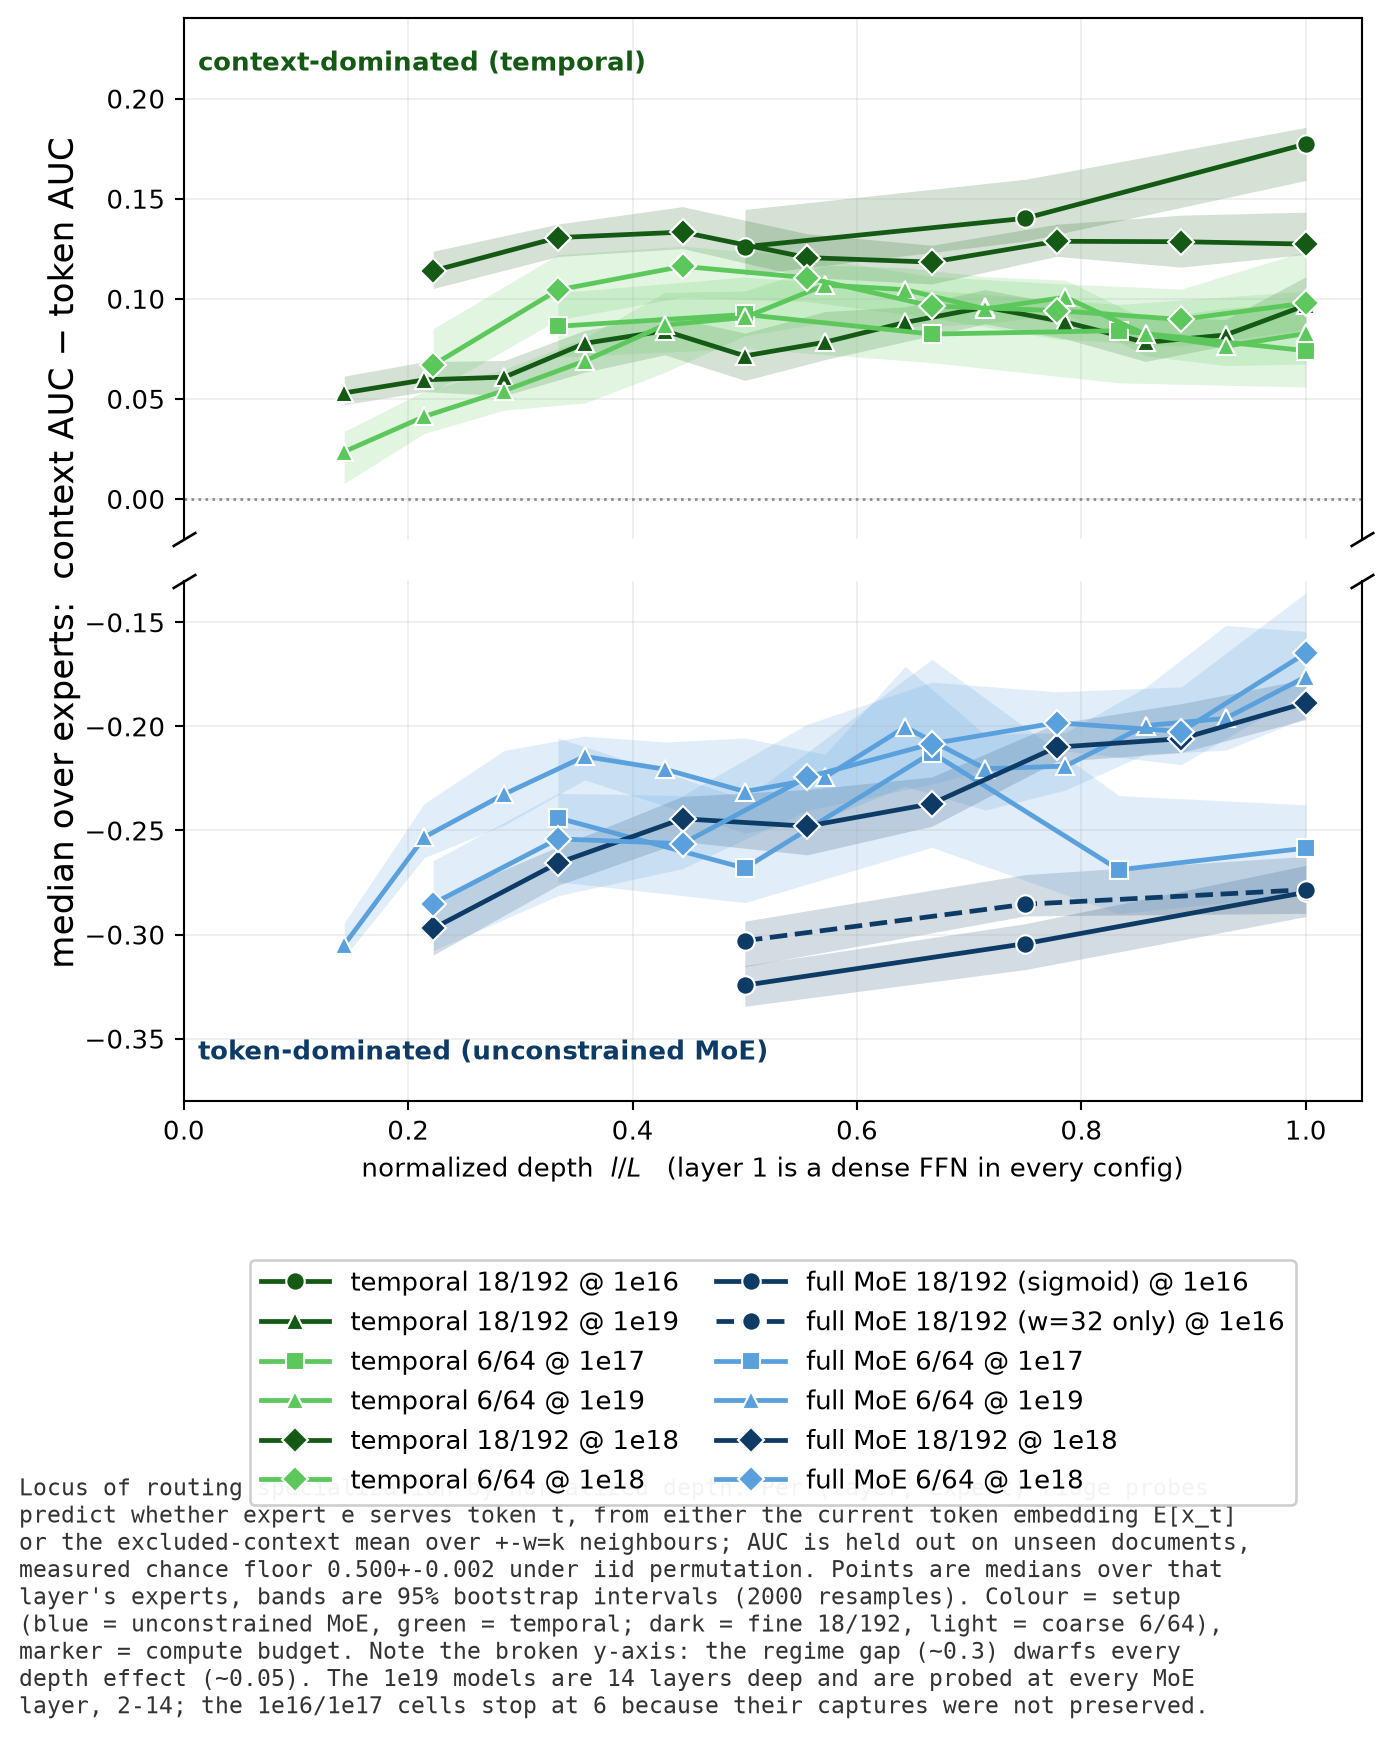
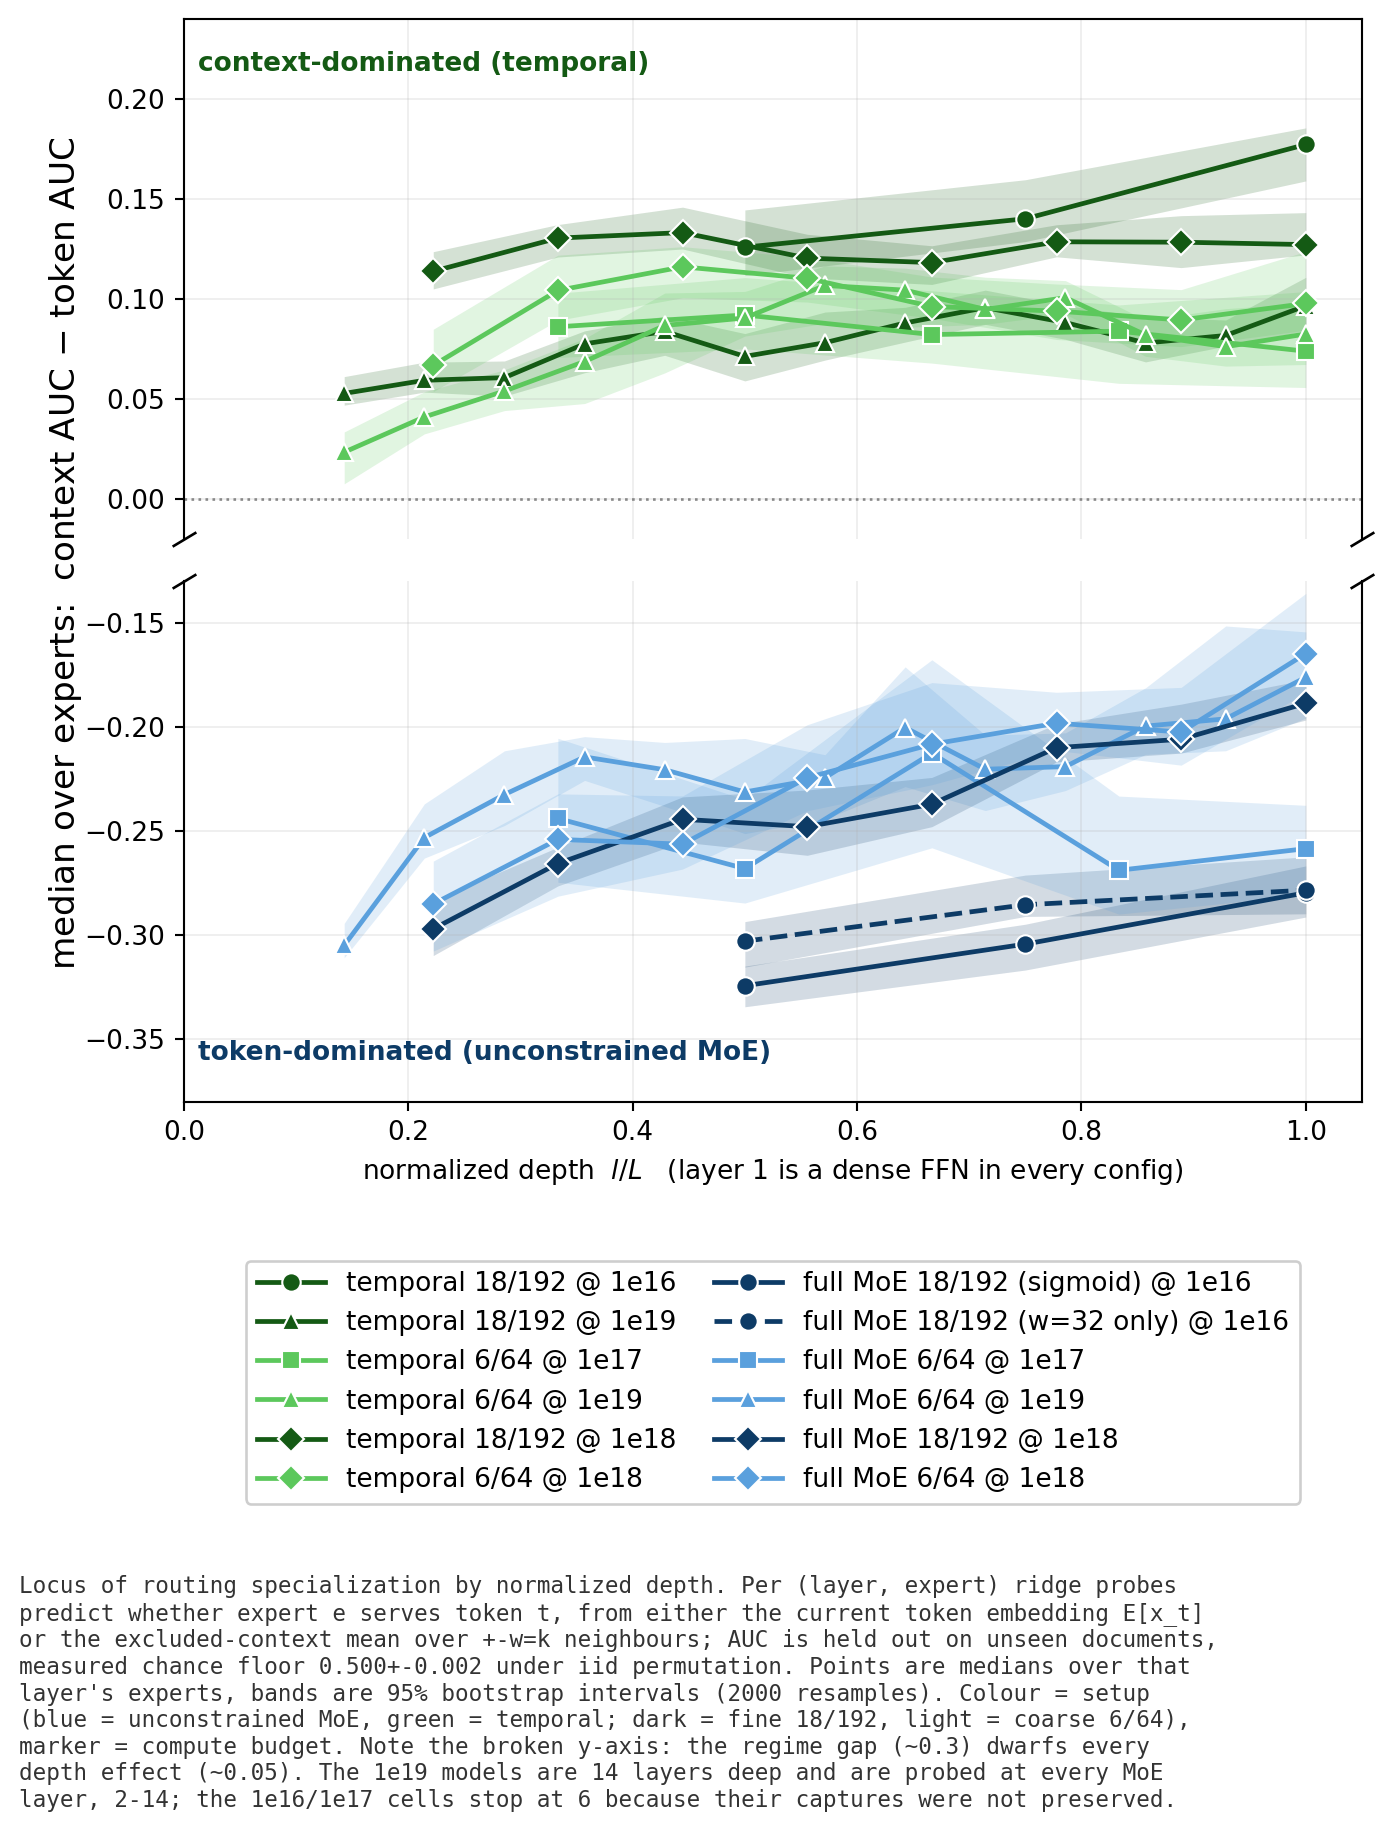
Refresh the locus figure for the depth fix, and derive the caption offset
Two things the depth mapping left behind.

The committed figure predated it by four commits, so it was drawn while
the three 1e19 runs resolved to no depth. Now that they resolve to 14 the
script produces a different and correct figure, and the gate was red
against a stale baseline rather than a defect. Regenerated, both the
captioned and uncaptioned variants, with the 1e19 curves spanning 0.14 to
1.0 as a fourteen-layer model should. The slopes table moves by one digit
in one field on one legacy row and is refreshed with it.

The caption offset was a constant tuned when the series list held eight
entries and the legend was four rows. Adding the four 1e18 arms grew it to
six and the legend landed on top of the caption, which is the same shape
of defect as a hand-maintained count: a number that was correct when
written and silently wrong once its input changed. It is now derived from
the row count, reproducing the known-good four-row spacing and surviving
the next series added.

diff --git a/analysis/plots/plot_locus_by_layer.py b/analysis/plots/plot_locus_by_layer.py
@@ -290,13 +290,21 @@ lo.text(0.012, 0.08, "token-dominated (unconstrained MoE)", transform=lo.transAx
 
 hh, ll = hi.get_legend_handles_labels()
 h2, l2 = lo.get_legend_handles_labels()
-lo.legend(hh + h2, ll + l2, loc="upper center", bbox_to_anchor=(0.5, -0.28),
-          framealpha=0.95, ncol=2, handlelength=2.6, columnspacing=1.4)
+LEGEND_NCOL, LEGEND_Y = 2, -0.28
+lo.legend(hh + h2, ll + l2, loc="upper center", bbox_to_anchor=(0.5, LEGEND_Y),
+          framealpha=0.95, ncol=LEGEND_NCOL, handlelength=2.6, columnspacing=1.4)
+
+# The caption sits below the legend, so its offset has to follow the legend's height rather than be a
+# constant. It was a constant, tuned when SERIES held 8 entries (4 rows); adding the four 1e18 arms
+# grew the legend to 6 rows and it landed on top of the caption. Deriving the offset from the row
+# count reproduces the known-good 4-row spacing (-0.72) and keeps working as series are added.
+_legend_rows = -(-len(hh + h2) // LEGEND_NCOL)          # ceil division
+CAPTION_Y = LEGEND_Y - 0.095 * _legend_rows - 0.06
 
 if PAPER:
     out = os.path.join(OUT, "locus_by_layer_nocaption.png")
 else:
-    lo.text(-0.14, -0.72,
+    lo.text(-0.14, CAPTION_Y,
             "Locus of routing specialization by normalized depth. Per (layer, expert) ridge probes\n"
             "predict whether expert e serves token t, from either the current token embedding E[x_t]\n"
             "or the excluded-context mean over +-w=k neighbours; AUC is held out on unseen documents,\n"
